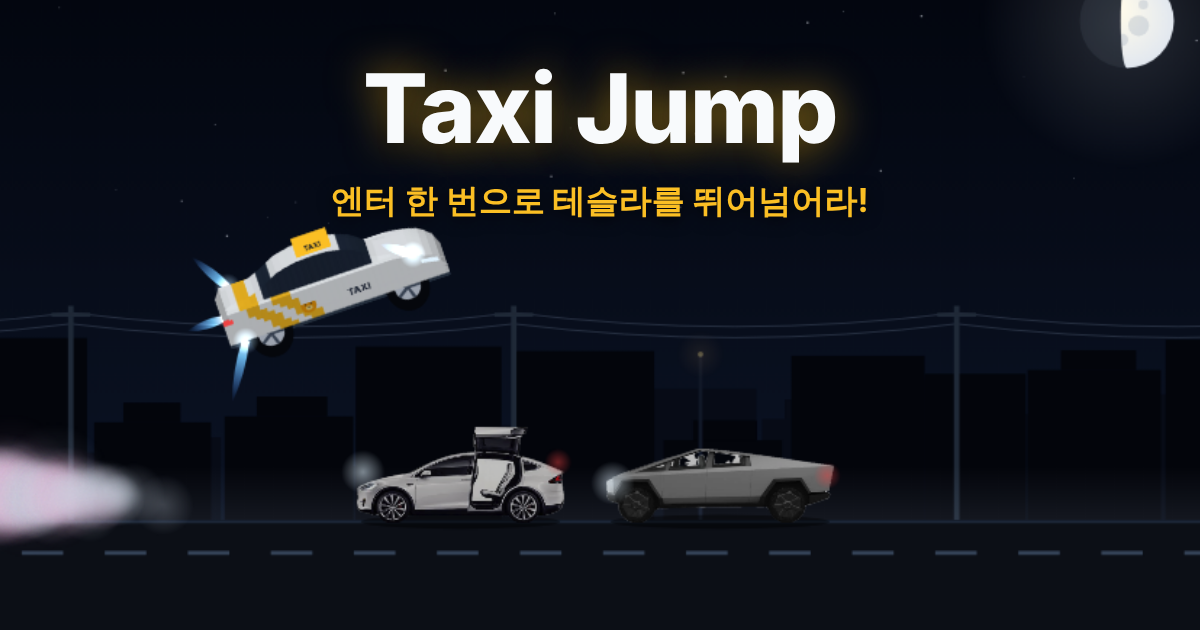
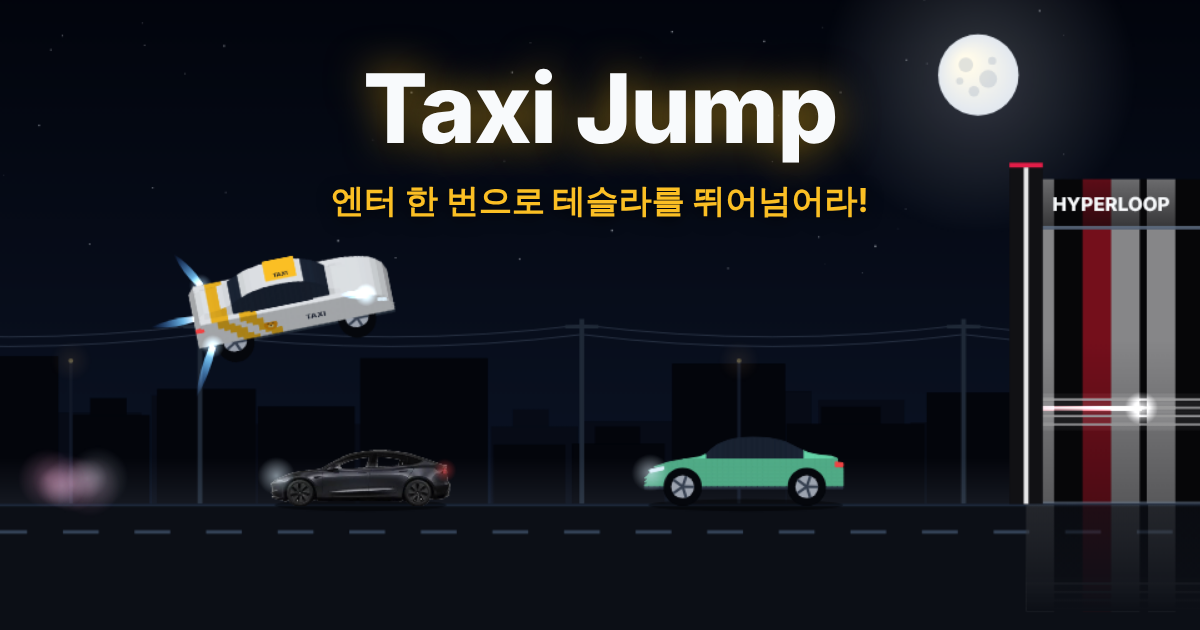
링크 공유 썸네일에 민트 라이벌과 피버 터널 추가 (#53)
Claude-Session: https://claude.ai/code/session_019BWpaBJK2pD8Q8EcYZuwd8

diff --git a/index.html b/index.html
@@ -11,14 +11,14 @@
 <meta property="og:type" content="website">
 <meta property="og:title" content="Taxi Jump">
 <meta property="og:description" content="엔터 한 번으로 테슬라를 뛰어넘어라! 원버튼 점프 게임">
-<meta property="og:image" content="https://lapin-world.github.io/car-jump/assets/og-image.png?v=2">
+<meta property="og:image" content="https://lapin-world.github.io/car-jump/assets/og-image.png?v=3">
 <meta property="og:image:width" content="1200">
 <meta property="og:image:height" content="630">
 <meta property="og:url" content="https://lapin-world.github.io/car-jump/">
 <meta name="twitter:card" content="summary_large_image">
 <meta name="twitter:title" content="Taxi Jump">
 <meta name="twitter:description" content="엔터 한 번으로 테슬라를 뛰어넘어라!">
-<meta name="twitter:image" content="https://lapin-world.github.io/car-jump/assets/og-image.png?v=2">
+<meta name="twitter:image" content="https://lapin-world.github.io/car-jump/assets/og-image.png?v=3">
 <style>
   html, body { margin: 0; height: 100%; background: #020617; overflow: hidden; touch-action: none; }
   body { user-select: none; -webkit-user-select: none; -webkit-tap-highlight-color: transparent; }
